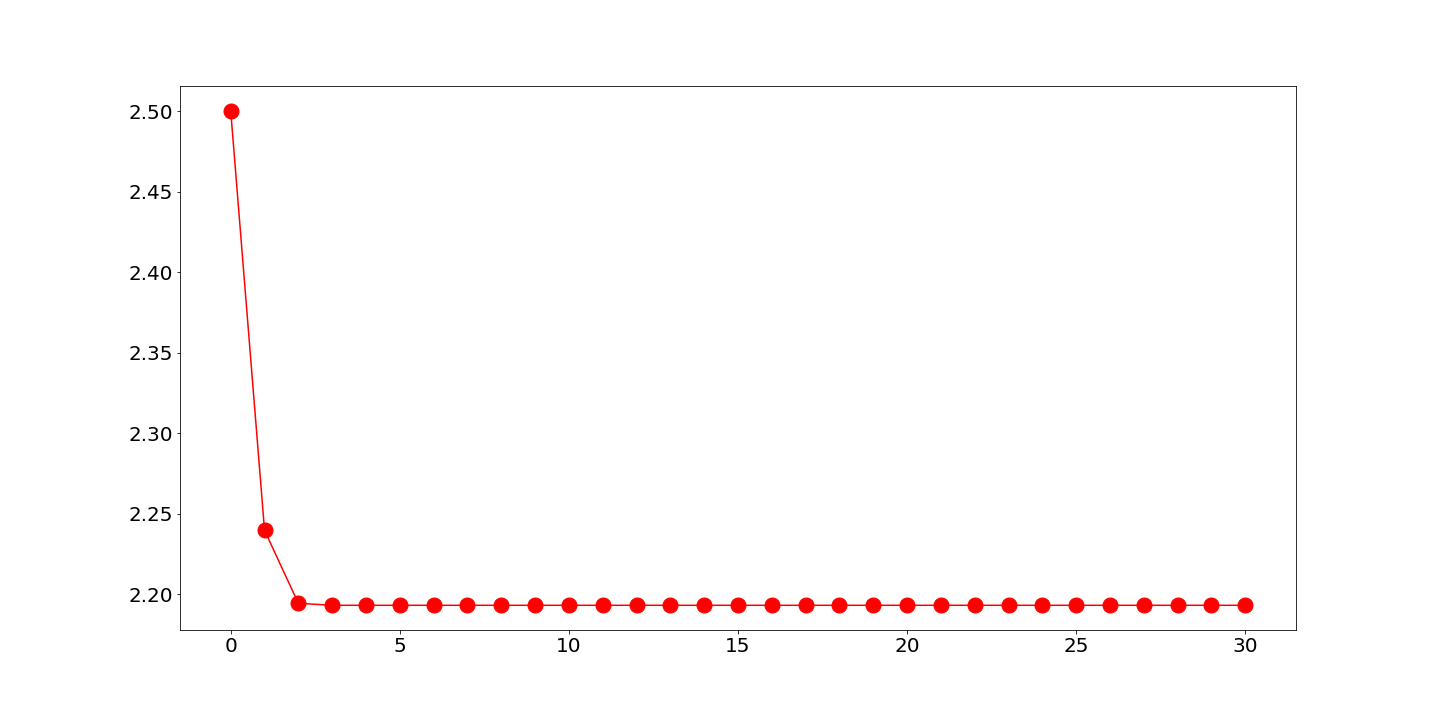
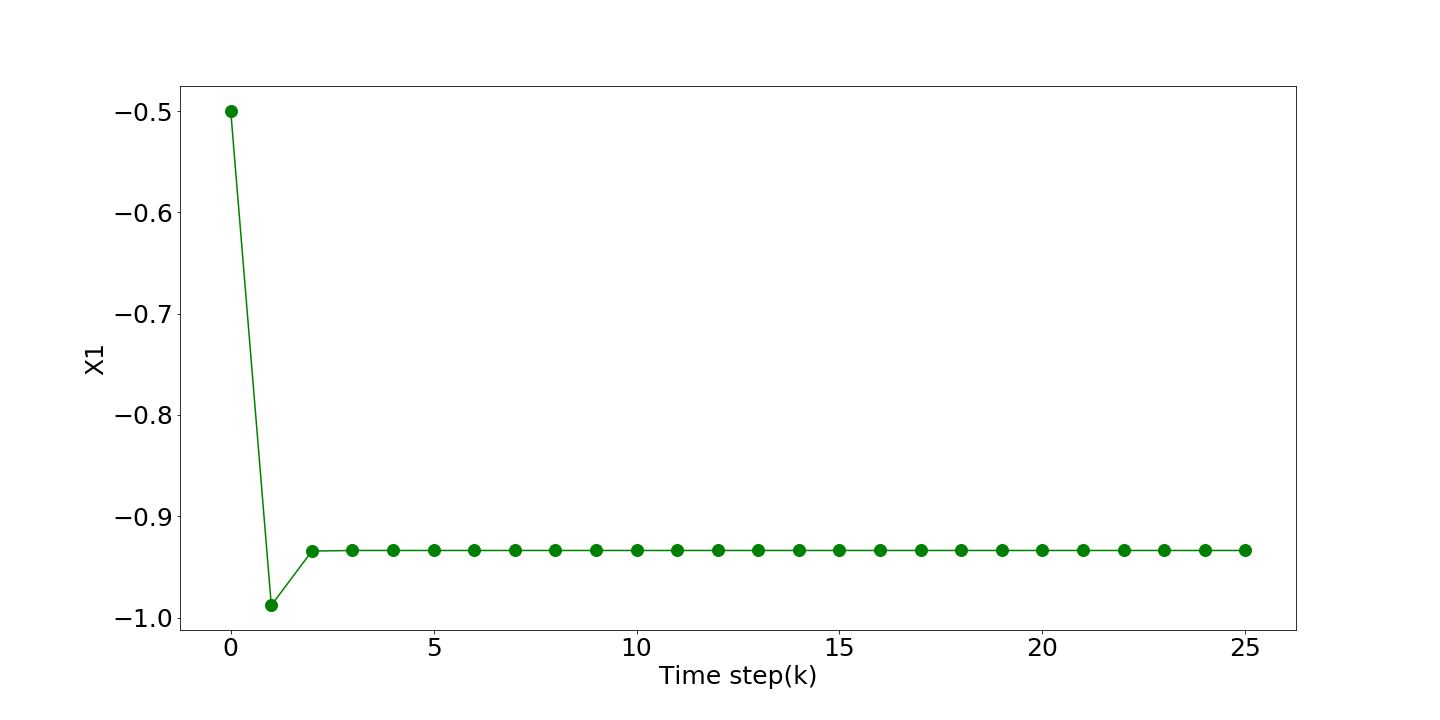
with Fourier

diff --git a/pratica1/p1.py b/pratica1/p1.py
@@ -268,17 +268,68 @@ g = lambda x: x - (x*x-4*x+np.exp(x)-5) / (2*x-4+np.exp(x))
 
 x0=2.5
 ap=[x0]
-for i in range(30):
+for i in range(25):
     x1=g(x0)
     x0=x1
     ap.append(x0)
 
 plt.figure(figsize=(20,10))
-plt.rc('xtick',labelsize=20)
-plt.rc('ytick',labelsize=20)
-plt.plot(ap,'r-o',markersize=15)
-plt.savefig('im1.png')
+plt.rc('xtick',labelsize=25)
+plt.rc('ytick',labelsize=25)
+plt.xlabel('Time step(k)', fontsize=25)
+plt.ylabel('X1', fontsize=25)
+#plt.grid()
+plt.plot(ap,'r-o',markersize=12)
+plt.savefig('im2.png')
  
+h = lambda x: x*x-4*x+np.exp(x)-5
+doubled = [h(num) for num in range(-3,4)]
+print(doubled)
+print(ap[len(ap)-1])
 
+
+# %%
+# 
+#  fourier
+
+import numpy as np
+import matplotlib.pyplot as plt
+
+x=np.linspace(-8,8,500)
+
+y=np.zeros(len(x))
+plt.figure(figsize=(30,10))
+plt.rc('xtick',labelsize=30)
+plt.rc('ytick',labelsize=30)
+
+for k in range(0,16):
+    i= 2*k + 1
+    tmp=np.sin(i*x)/i
+    y=y+4*tmp/np.pi
+    if k%4==0:
+        plt.plot(x,y,linewidth=3,label='%d terms' %(k+1))
+plt.legend(loc='best',fontsize=15)
+plt.show()
+
+# %%
+# 
+
+import numpy as np
+import matplotlib.pyplot as plt
+
+x=np.linspace(-8, 8,500)
+y=np.zeros(len(x))
+plt.figure(figsize=(30,10))
+plt.rc('xtick',labelsize=30)
+plt.rc('ytick',labelsize=30)
+
+for k in range(1,6): 
+    signL=(-1)^(k+1)
+    tmp=signL*np.sin(k*x)/k
+    y=y+2*tmp
+    if k%1==0:
+        plt.plot(x,y,linewidth=3,label='%d terms' %(k+1))
+plt.legend(loc='best',fontsize=15)
+plt.show()
 
 # %%
